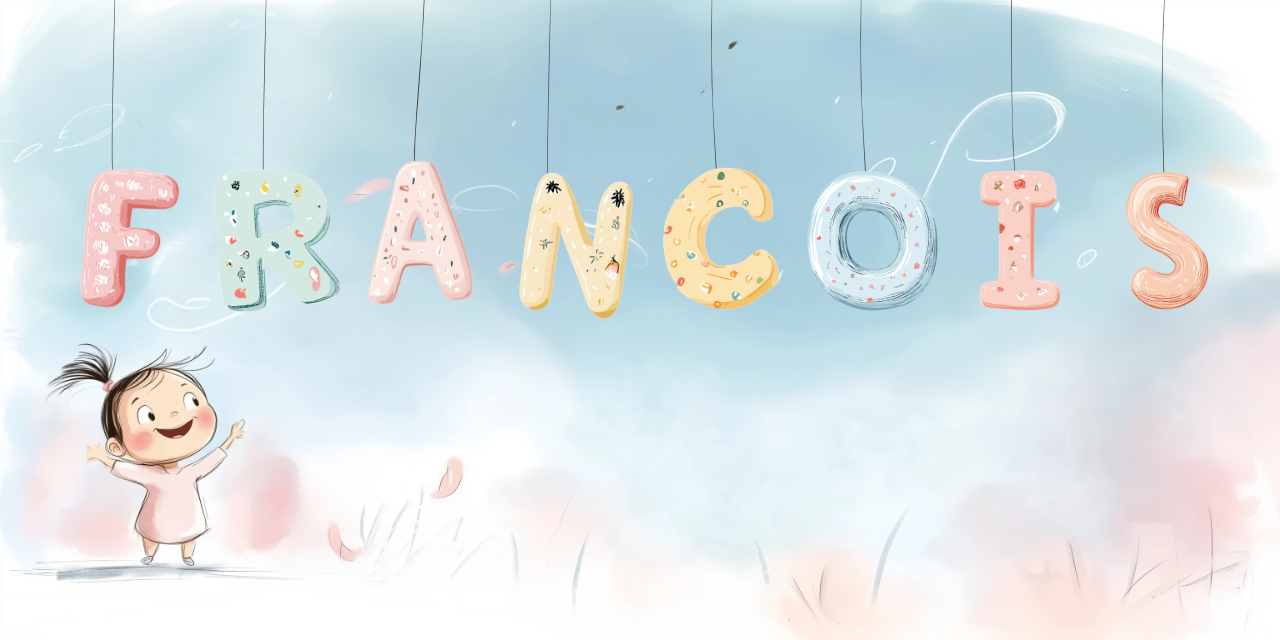
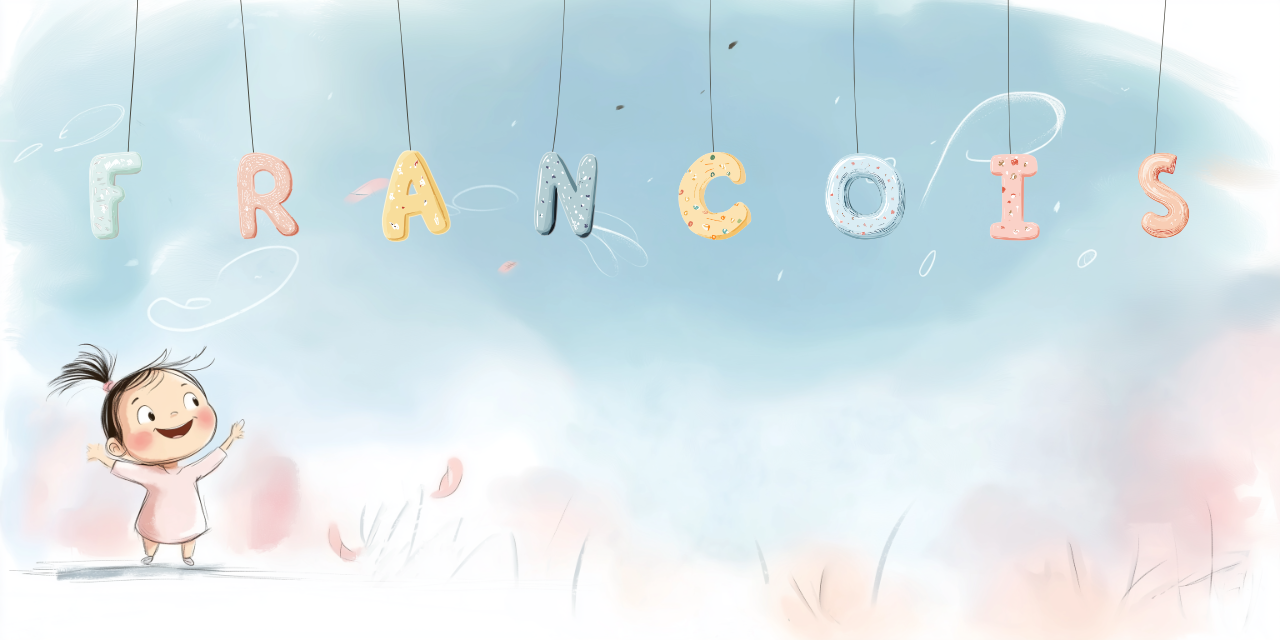
📂 Dynamic Letter Sizing Based on Name Length
### Updates:
- Implemented two folder paths for letters based on name length:
  - **2 to 7 letters** → Uses the **normal** folder.
  - **8 to 12 letters** → Uses the **small** folder with `_small` suffix in filenames.
- Folder paths are now **configurable via config.json** for easy updates.
- Naming convention remains the same, except `_small` is appended for longer names.

### Logic Enhancements:
- **Letter Variations**: Cycles through different versions of the same letter. 🔄
- **Loopback Handling**: If a letter appears more times than variations, it loops back to the first.
- **Dynamic Letter Spacing**: Respects values from `config.json`. 📏
- **Top Alignment** remains consistent.

### Edge Cases:
- Names **outside the 2–12 range** default to the normal path for now.
- Future updates may refine this behavior based on requirements.

🚀 Ready for testing and feedback!

Changed region(s): [[0.4062, 0.2188, 0.8438, 0.5], [0.0625, 0.2188, 0.375, 0.5], [0.875, 0.2188, 0.9688, 0.5]]

diff --git a/monet_V0_8/Monet_V0_8.py b/monet_V0_8/Monet_V0_8.py
@@ -5,21 +5,43 @@ from PIL import Image
 def generate_background_image(child_name, config):
     """
     Generates 'Background_<child_name>.png' by overlaying smaller letter images
-    onto the background. Now supports:
-      - Dynamic letter spacing based on name length
-      - Multiple variations per letter (e.g., E.png, E1.png, E2.png) for
-        repeated occurrences of the same letter.
+    (or smaller "small" images) onto the background.
+    
+    Key features:
+      - Dynamic letter spacing per name length (2..12)
+      - Two sets of letter images:
+          * normal (2..7 letters)
+          * small  (8..12 letters)
+      - Variation cycling for repeated letters (E.png, E1.png, E2.png, etc.)
     """
 
-    # Extract relevant config paths
+    # 1) Decide which folder to use based on length
+    #    2..7 => normal
+    #    8..12 => small
+    #    outside that range => let's default to normal 
+    name_length = len(child_name)
+    if 2 <= name_length <= 7:
+        letters_folder_config_key = "letters_normal"
+        suffix_small = ""  # no suffix
+    elif 8 <= name_length <= 12:
+        letters_folder_config_key = "letters_small"
+        suffix_small = config.get("filename_suffix_small", "_small")
+    else:
+        # fallback if name length is 1 or >12
+        letters_folder_config_key = "letters_normal"
+        suffix_small = ""
+
+    # 2) Extract relevant config paths
     background_path = os.path.join(
         os.path.dirname(__file__),
         config["paths"]["new_background"].replace("monet_V0_8/", "")
     )
+
     letters_folder = os.path.join(
         os.path.dirname(__file__),
-        config["paths"]["new_letters"].replace("monet_V0_8/", "")
+        config["paths"][letters_folder_config_key].replace("monet_V0_8/", "")
     )
+
     output_folder = os.path.join(
         os.path.dirname(__file__),
         config["paths"]["new_output"].replace("monet_V0_8/", "")
@@ -32,122 +54,101 @@ def generate_background_image(child_name, config):
     background = Image.open(background_path).convert("RGBA")
     bg_width, bg_height = background.size
 
-    # Turn child's name into a list of characters
-    # (In production, consider filtering out spaces/punctuation if desired)
+    # Convert child's name into a list of characters
     letters_in_name = [char for char in child_name]
     if not letters_in_name:
         print("[Warning] Child name is empty, nothing to generate.")
         return
 
-    # 1) PREPARE LETTER VARIATIONS
-    # We'll build a dictionary that maps the UPPERCASE letter (e.g. 'E') => list of variation files
-    # Then, for each occurrence of that letter, we cycle through the list.
-
-    # This function scans the folder for all files that match e.g. E.png, E1.png, E2.png, ...
-    # and returns them sorted in ascending order (so E.png, E1.png, E2.png, ...)
-    def get_variations_for_letter(letter_char: str):
-        # letter_char is uppercase, e.g. 'E'
-        variation_files = []
-        for filename in os.listdir(letters_folder):
-            # We'll do a simple pattern: it starts with the letter (like 'E') 
-            # and ends with .png, possibly with a digit or digits in between.
-            # Examples that match: E.png, E1.png, E2.png
-            # Examples that do NOT match: E-something.png, or e1.png
-            pattern = f"^{letter_char}(\\d*)\\.png$"
-            if re.match(pattern, filename):
-                variation_files.append(filename)
-        
-        # If we have no matches (e.g. letter_char + any digits), 
-        # maybe there's a base file "E.png"? Let's check that too
-        # But the above pattern already includes E.png, because the group (\d*) can be empty
-        # So if none found, we could also check if 'E.png' is there. 
-        # But the code above does that, so we might be good.
-
-        # Sort them so that "E.png" < "E1.png" < "E2.png" etc.
-        variation_files.sort()
-
-        # If we found none, we might check for exactly letter_char + ".png" 
-        # (But the pattern above already includes that if it exists.)
-        # Return the full paths
-        full_paths = [
-            os.path.join(letters_folder, vf)
-            for vf in variation_files
-        ]
-        return full_paths
-
-    # We'll cache these variations to avoid scanning repeatedly
-    variations_cache = {}
-
-    def get_letter_variations(letter_char):
-        """
-        Return the list of variation image paths for the given uppercase letter_char.
-        If none exist, returns an empty list.
-        """
-        if letter_char not in variations_cache:
-            variations_cache[letter_char] = get_variations_for_letter(letter_char)
-        return variations_cache[letter_char]
-
-    # 2) DETERMINE LETTER SPACING (already present logic from config)
+    # 3) Determine letter spacing
     spacing_dict = config.get("letter_spacing_per_length", {})
     default_spacing = config.get("default_letter_spacing_px", 0)
-    num_letters_in_name = len(letters_in_name)
-    letter_spacing = spacing_dict.get(str(num_letters_in_name), default_spacing)
+    letter_spacing = spacing_dict.get(str(name_length), default_spacing)
 
-    # We'll load each letter's image(s), keep track of the images we actually will composite.
-    # For repeated letters, we cycle their variation index.
+    # 4) Variation logic
+    # We'll scan the letters folder for valid files for each letter and store them in a cache.
+    # Filenames might be E.png, E1.png, E2.png, or if suffix_small is not empty: E_small.png, E1_small.png, etc.
+    # We'll then pick the nth variation for the nth occurrence of that letter.
 
-    # We'll store a list of (image, width) for each occurrence of each letter
-    # in the order we plan to paste them.
+    variations_cache = {}
+
+    def get_variations_for_letter(uppercase_char):
+        """
+        Return a list of paths to variation images for the given uppercase_char,
+        optionally appending the _small suffix if needed.
+        Example: For 'E' + suffix='_small', we look for E_small.png, E1_small.png, E2_small.png, etc.
+        """
+        pattern_without_digits = rf"^{uppercase_char}{suffix_small}\.png$"
+        pattern_with_digits =   rf"^{uppercase_char}(\d+){suffix_small}\.png$"
+
+        valid_files = []
+        for filename in os.listdir(letters_folder):
+            # Does the file match either E_small.png or E1_small.png or E2_small.png etc.?
+            if re.match(pattern_without_digits, filename) or re.match(pattern_with_digits, filename):
+                valid_files.append(filename)
+
+        # Sort them so e.g. E_small.png < E1_small.png < E2_small.png
+        valid_files.sort()
+
+        # Convert to full paths
+        full_paths = [os.path.join(letters_folder, f) for f in valid_files]
+        return full_paths
+
+    def load_next_variation(uppercase_char):
+        """
+        Each time we call this for a given uppercase_char, we get the next variation
+        in a round-robin fashion.
+        """
+        # If not in cache, load once
+        if uppercase_char not in variations_cache:
+            variations_cache[uppercase_char] = get_variations_for_letter(uppercase_char), 0
+
+        files_list, index = variations_cache[uppercase_char]
+
+        if not files_list:
+            # No images found, return None
+            return None
+
+        # Pick the current file
+        chosen_file = files_list[index]
+        # Move the index forward (wrap around if needed)
+        new_index = (index + 1) % len(files_list)
+        variations_cache[uppercase_char] = (files_list, new_index)
+
+        # Return the image
+        return Image.open(chosen_file).convert("RGBA")
+
     images_to_composite = []
-
-    # We'll track how many times we've seen each uppercase letter so far
-    # so we know which variation index to use next.
-    occurrence_counter = {}
-
     for char in letters_in_name:
         uppercase_char = char.upper()
+        letter_img = load_next_variation(uppercase_char)
+        if letter_img:
+            images_to_composite.append(letter_img)
+        else:
+            print(f"[Warning] No images found for letter '{char}' with suffix '{suffix_small}'. Skipping.")
 
-        # Get all variation paths for this letter (could be 1 or many)
-        variation_paths = get_letter_variations(uppercase_char)
-        if not variation_paths:
-            # If no match found, we skip or look for a fallback like 'A.png' 
-            # But to keep it simple: skip with a warning
-            print(f"[Warning] No variations found for letter '{char}'. Skipping.")
-            continue
-        
-        # We track how many times we've encountered this letter
-        occurrence_counter[uppercase_char] = occurrence_counter.get(uppercase_char, 0) + 1
-        occurrence_index = occurrence_counter[uppercase_char] - 1  # zero-based index
-
-        # The variation list might be shorter than the number of occurrences, so we cycle
-        chosen_variation = variation_paths[occurrence_index % len(variation_paths)]
-
-        # Open that variation
-        letter_img = Image.open(chosen_variation).convert("RGBA")
-        images_to_composite.append(letter_img)
-
-    # If no images end up in images_to_composite, there's nothing to do
+    # If no images loaded, do nothing
     if not images_to_composite:
         print("[Warning] No valid letters loaded, skipping generation.")
         return
 
-    # Calculate the total width of all chosen images + spacing
+    # 5) Calculate total width of images + spacing
     letter_widths = [img.size[0] for img in images_to_composite]
     sum_letter_widths = sum(letter_widths)
     total_spacing = (len(images_to_composite) - 1) * letter_spacing
     total_width = sum_letter_widths + total_spacing
 
-    # Centering horizontally
+    # 6) Compute x_start to center horizontally, and a top_y for top alignment
     x_start = (bg_width - total_width) // 2
-    top_y = 0  # if you want an option for top alignment from config, do: config.get("top_alignment_y", 0)
+    top_y = 0  # or config.get("top_alignment_y", 0) if you prefer a top offset
 
-    # Composite each image at the correct X
+    # 7) Composite
     current_x = x_start
     for img in images_to_composite:
         background.alpha_composite(img, dest=(current_x, top_y))
         current_x += img.size[0] + letter_spacing
 
-    # Finally, save as "Background_<child_name>.png"
+    # 8) Save
     output_filename = f"Background_{child_name}.png"
     output_path = os.path.join(output_folder, output_filename)
     background.save(output_path)
